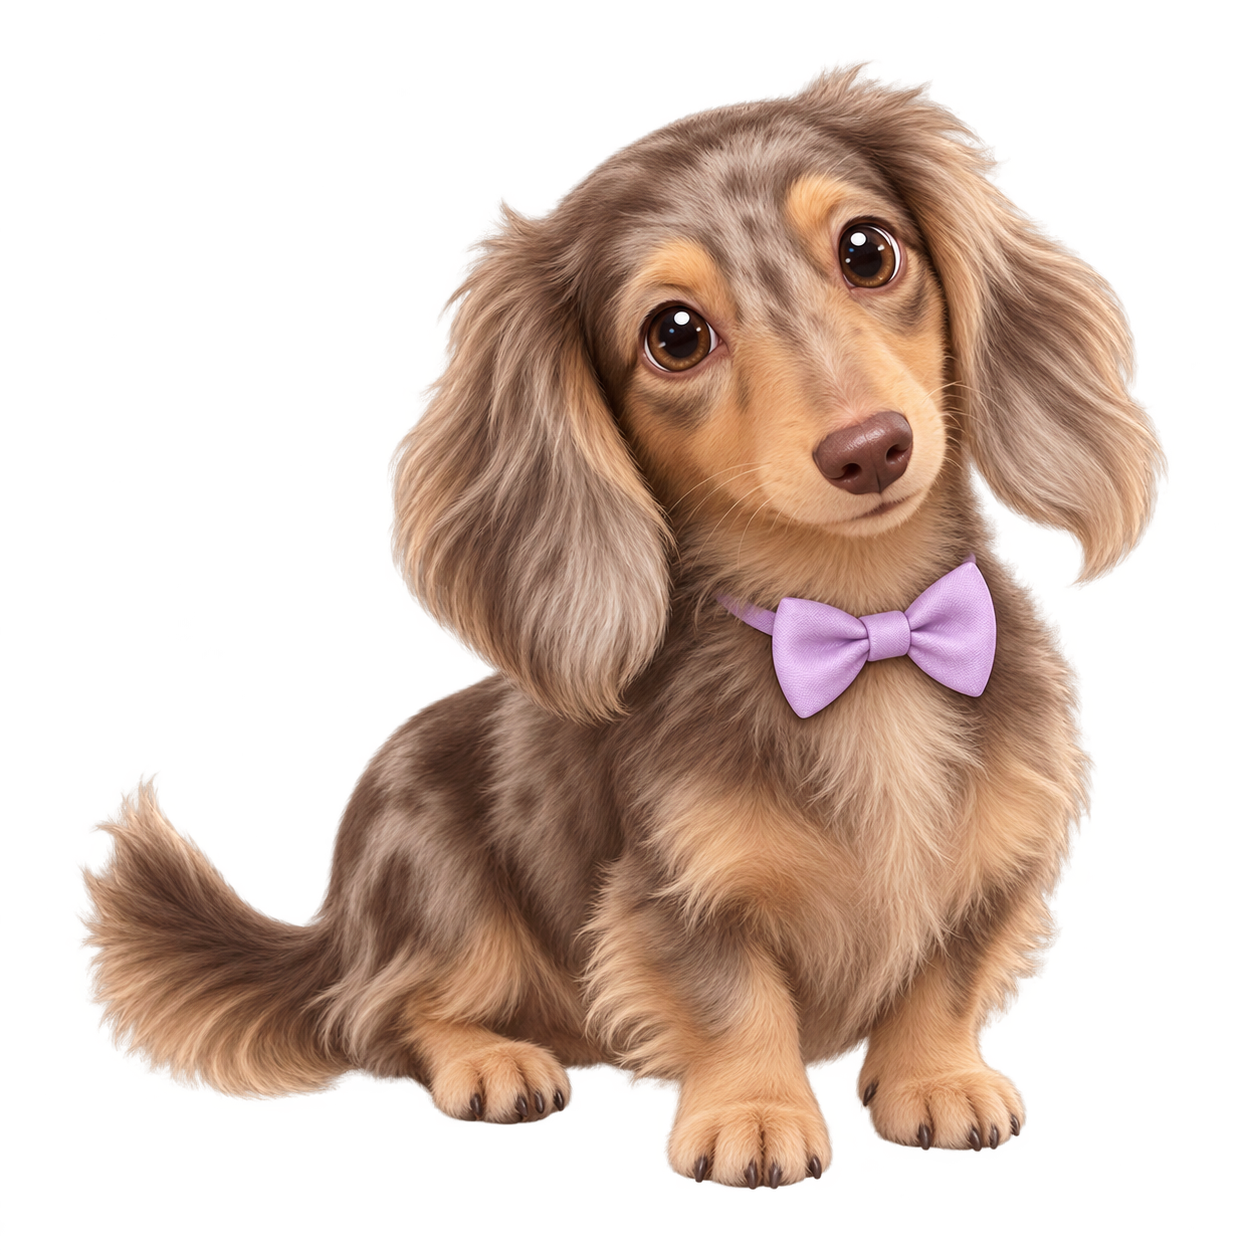
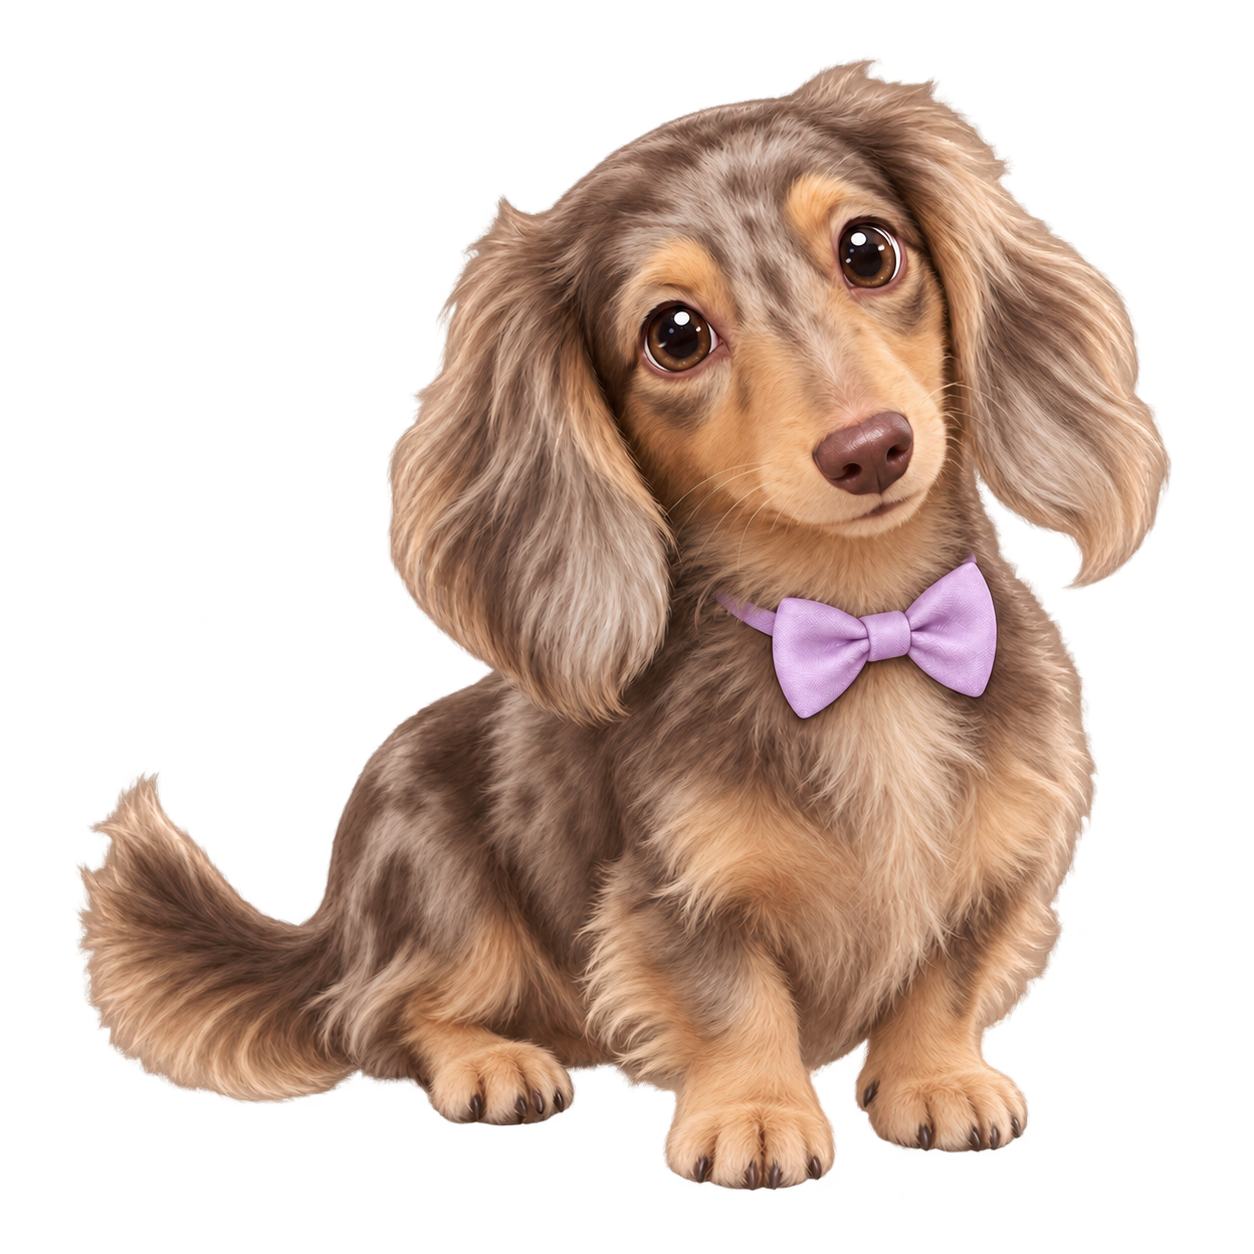
Remove shadows from profile pictures
The avatar images and dialog styling add gray shadows that look out of
place against the flat pastel chat background.

Replace both avatars with clean transparent versions and remove the CSS
drop-shadow effect. This keeps the profile pictures crisp and consistent
with the rest of the interface.

diff --git a/src/main/resources/css/dialog-box.css b/src/main/resources/css/dialog-box.css
@@ -25,7 +25,3 @@
     -fx-font-weight: bold;
     -fx-text-fill: #7a1421;
 }
-
-#displayPicture {
-    -fx-effect: dropshadow(gaussian, rgba(0, 0, 0, 0.2), 10, 0.5, 5, 5);
-}
